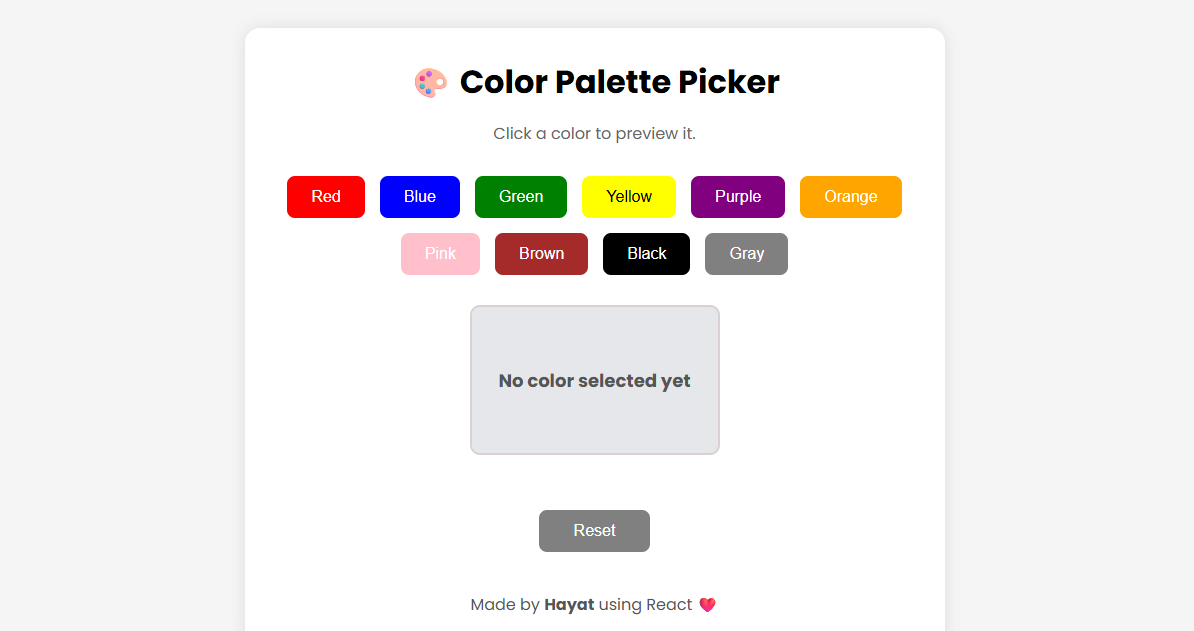
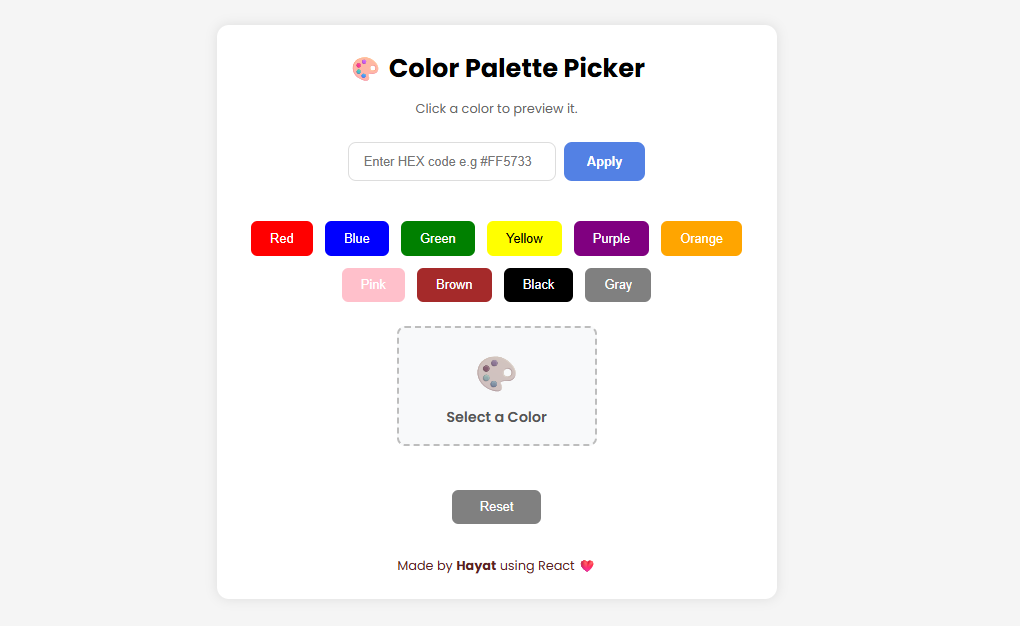
Add color preview enhancements and custom HEX color support

Changed region(s): [[0.2431, 0.0911, 0.7598, 0.7284], [0.3951, 0.7588, 0.5775, 0.9105], [0.3951, 0.9409, 0.6078, 0.9712]]

diff --git a/src/index.css b/src/index.css
@@ -6,7 +6,7 @@
 
 body {
   background: #f5f5f5;
-  font-family:'Poppins',sans-serif;
+  font-family: "Poppins", sans-serif;
 }
 
 .container {
@@ -16,7 +16,7 @@ body {
   background: rgb(255, 255, 255);
   padding: 30px;
   border-radius: 15px;
-  box-shadow: 0 0 15px rgba(0,0,0,0.1);
+  box-shadow: 0 0 15px rgba(0, 0, 0, 0.1);
   text-align: center;
 }
 
@@ -24,17 +24,18 @@ h1 {
   margin-bottom: 15px;
 }
 
-.subtitle{
-    color:#666;
-    margin-bottom: 30px;
+.subtitle {
+  color: #666;
+  margin-bottom: 30px;
 }
 
 .button-container {
   display: flex;
   justify-content: center;
-  flex-wrap:wrap;
+  flex-wrap: wrap;
   gap: 15px;
   margin-bottom: 30px;
+  margin-top: 50px;
 }
 
 .preview-section {
@@ -62,29 +63,29 @@ button {
 .selected {
   border: 3px solid black;
   transform: scale(1.1);
-  box-shadow: 0 0 15px rgba(0,0,0,.25);
+  box-shadow: 0 0 15px rgba(0, 0, 0, 0.25);
 }
 
 .reset-btn {
-    margin-top: 25px;
-    padding: 12px 35px;
-    border: none;
-    border-radius: 8px;
-    background: #333;
-    color: white;
-    font-size: 16px;
-    cursor: pointer;
-    transition: .3s;
+  margin-top: 25px;
+  padding: 12px 35px;
+  border: none;
+  border-radius: 8px;
+  background: #333;
+  color: white;
+  font-size: 16px;
+  cursor: pointer;
+  transition: 0.3s;
 }
 
 .reset-btn:hover {
-    background: #111;
-    transform: scale(1.05);
+  background: #111;
+  transform: scale(1.05);
 }
 
 .reset-btn:disabled {
-    background: gray;
-    cursor: not-allowed;
+  background: gray;
+  cursor: not-allowed;
 }
 
 .preview-box {
@@ -101,6 +102,9 @@ button {
   transition: all 0.3s ease;
 }
 
+.preview-box.empty {
+  border: 3px dashed #bdbdbd;
+}
 .preview-box p {
   font-size: 18px;
   color: #555;
@@ -116,39 +120,105 @@ button {
   transition: color 0.3s ease;
 }
 
-.no-color {
-  color: #555;
-  font-size: 20px;
-  font-weight: bold;
+.empty-preview {
+  display: flex;
+  flex-direction: column;
+  align-items: center;
+  justify-content: center;
+  color: #777;
+  gap: 8px;
+}
+
+.palette-icon {
+  font-size: 48px;
+  filter: grayscale(80%);
+}
+
+.empty-preview p {
+  font-size: 18px;
+  font-weight: 600;
 }
 
 .button-container button:hover {
   transform: translateY(-3px);
   opacity: 0.9;
-  box-shadow: 0 5px 12px rgba(0,0,0,.25);
+  box-shadow: 0 5px 12px rgba(0, 0, 0, 0.25);
 }
 
 .selected-label {
-    margin-top: 25px;
-    color: #555;
-    font-size: 18px;
-    font-weight: 500;
+  margin-top: 25px;
+  color: #555;
+  font-size: 18px;
+  font-weight: 500;
 }
 
 .selected-name {
-    margin-top: 8px;
-    font-size: 42px;
-    font-weight: 700;
+  margin-top: 8px;
+  font-size: 42px;
+  font-weight: 700;
 }
 
 .hex-code {
-    margin-top: 10px;
-    font-size: 20px;
-    color: #666;
-    font-weight: 600;
+  margin-top: 10px;
+  font-size: 20px;
+  color: #666;
+  font-weight: 600;
+}
+
+.hex-input-container {
+  display: flex;
+  flex-wrap: wrap;
+  justify-content: center;
+  gap: 10px;
+  margin-bottom: 10px;
+}
+
+.hex-input-container input {
+  width: 260px;
+  padding: 14px 18px;
+  border: 2px solid #ddd;
+  border-radius: 10px;
+  font-size: 16px;
+  outline: none;
+  transition: all 0.3s ease;
+}
+
+.hex-input-container input:focus {
+  border-color: #3b82f6;
+  box-shadow: 0 0 10px rgba(59, 130, 246, 0.35);
+}
+
+.apply-btn {
+  background: #5381e4;
+  color: white;
+  cursor: pointer;
+  padding: 14px 28px;
+  border: none;
+  border-radius: 10px;
+  font-size: 16px;
+  font-weight: 600;
+  transition: all 0.3s;
+}
+
+.apply-btn:hover {
+  background: #1d4ed8;
+  box-shadow: 0 8px 20px rgba(37, 99, 235, 0.35);
+  transform: translateY(-2px);
+}
+.hex-title {
+  margin: 8px;
+  margin-right: 0px;
+  color: #696969;
+  font-size: 1rem;
+}
+.error {
+  margin-top: 10px;
+  color: #dc2626;
+  font-size: 15px;
+  font-weight: 600;
 }
 
 footer {
   margin-top: 40px;
-  color: #555;
+  color: #5a2121;
 }

diff --git a/src/App.jsx b/src/App.jsx
@@ -3,51 +3,100 @@ import ColorButton from "./components/ColorButton";
 import ColorPreview from "./components/ColorPreview";
 
 function App() {
-    const [selectedColor, setSelectedColor] = useState(null);
-    const colors = [
-        { id: 1, name: "Red", value: "#FF0000" },
-        { id: 2, name: "Blue", value: "#0000FF" },
-        { id: 3, name: "Green", value: "#008000" },
-        { id: 4, name: "Yellow", value: "#FFFF00" },
-        { id: 5, name: "Purple", value: "#800080" },
-        { id: 6, name: "Orange", value: "#FFA500" },
-        { id: 7, name: "Pink", value: "#FFC0CB" },
-        { id: 8, name: "Brown", value: "#A52A2A" },
-        { id: 9, name: "Black", value: "#000000" },
-        { id: 10, name: "Gray", value: "#808080" },
-    ];
+  const [selectedColor, setSelectedColor] = useState(null);
+  const [hexInput, setHexInput] = useState("");
+  const [error, setError] = useState("");
+  const colors = [
+    { id: 1, name: "Red", value: "#FF0000" },
+    { id: 2, name: "Blue", value: "#0000FF" },
+    { id: 3, name: "Green", value: "#008000" },
+    { id: 4, name: "Yellow", value: "#FFFF00" },
+    { id: 5, name: "Purple", value: "#800080" },
+    { id: 6, name: "Orange", value: "#FFA500" },
+    { id: 7, name: "Pink", value: "#FFC0CB" },
+    { id: 8, name: "Brown", value: "#A52A2A" },
+    { id: 9, name: "Black", value: "#000000" },
+    { id: 10, name: "Gray", value: "#808080" },
+  ];
+  function handleHexColor() {
+    const hexPattern = /^#([A-Fa-f0-9]{6})$/;
+
+    if (!hexPattern.test(hexInput)) {
+      setError("Please enter a valid HEX color.");
+      return;
+    }
+
+    setError("");
+
+    const existingColor = colors.find(
+      (color) => color.value.toLowerCase() === hexInput.toLowerCase(),
+    );
+
+    if (existingColor) {
+      setSelectedColor(existingColor);
+    } else {
+      setSelectedColor({
+        id: Date.now(),
+        name: "Custom Color",
+        value: hexInput.toUpperCase(),
+      });
+    }
+
+    setHexInput("");
+  }
+
   return (
     <div className="container">
       <h1>🎨 Color Palette Picker</h1>
-      <p className="subtitle">
-        Click a color to preview it.
-      </p>
+      <p className="subtitle">Click a color to preview it.</p>
+
+      <form
+        className="hex-input-container"
+        onSubmit={(e) => {
+          e.preventDefault();
+          handleHexColor();
+        }}
+      >
+        <input
+          type="text"
+          placeholder="Enter HEX code e.g #FF5733"
+          value={hexInput}
+          onChange={(e) => setHexInput(e.target.value)}
+        />
+
+        <button type="submit" className="apply-btn">
+          Apply
+        </button>
+      </form>
+
+      {error && <p className="error">{error}</p>}
 
       <div className="button-container">
         {colors.map((color) => (
-            <ColorButton
-                key={color.id}
-                color={color}
-                onClick={() => setSelectedColor(color)}
-                isSelected={selectedColor?.id === color.id}
-            />
-            ))}
+          <ColorButton
+            key={color.id}
+            color={color}
+            onClick={() => setSelectedColor(color)}
+            isSelected={selectedColor?.id === color.id}
+          />
+        ))}
       </div>
 
       <div className="preview-section">
         <ColorPreview color={selectedColor} />
       </div>
 
-      <button 
-            className="reset-btn" 
-            disabled={!selectedColor}
-            onClick={() => setSelectedColor(null)}>
+      <button
+        className="reset-btn"
+        disabled={!selectedColor}
+        onClick={() => setSelectedColor(null)}
+      >
         Reset
       </button>
 
-    
-      <footer>Made by <strong>Hayat</strong> using React ❤️</footer>
-
+      <footer>
+        Made by <strong>Hayat</strong> using React ❤️
+      </footer>
     </div>
   );
 }

diff --git a/src/components/ColorPreview.jsx b/src/components/ColorPreview.jsx
@@ -2,15 +2,17 @@ function ColorPreview({ color }) {
   return (
     <div>
       <div
-        className="preview-box"
+        className={`preview-box ${!color ? "empty" : ""}`}
         style={{
-          backgroundColor: color?.value || "#e5e7eb",
+          backgroundColor: color?.value || "#f8f9fa",
         }}
       >
+      
         {!color && (
-          <p className="no-color">
-            No color selected yet
-          </p>
+          <div className="empty-preview">
+            <span className="palette-icon">🎨</span>
+            <p>Select a Color</p>
+          </div>
         )}
       </div>
 